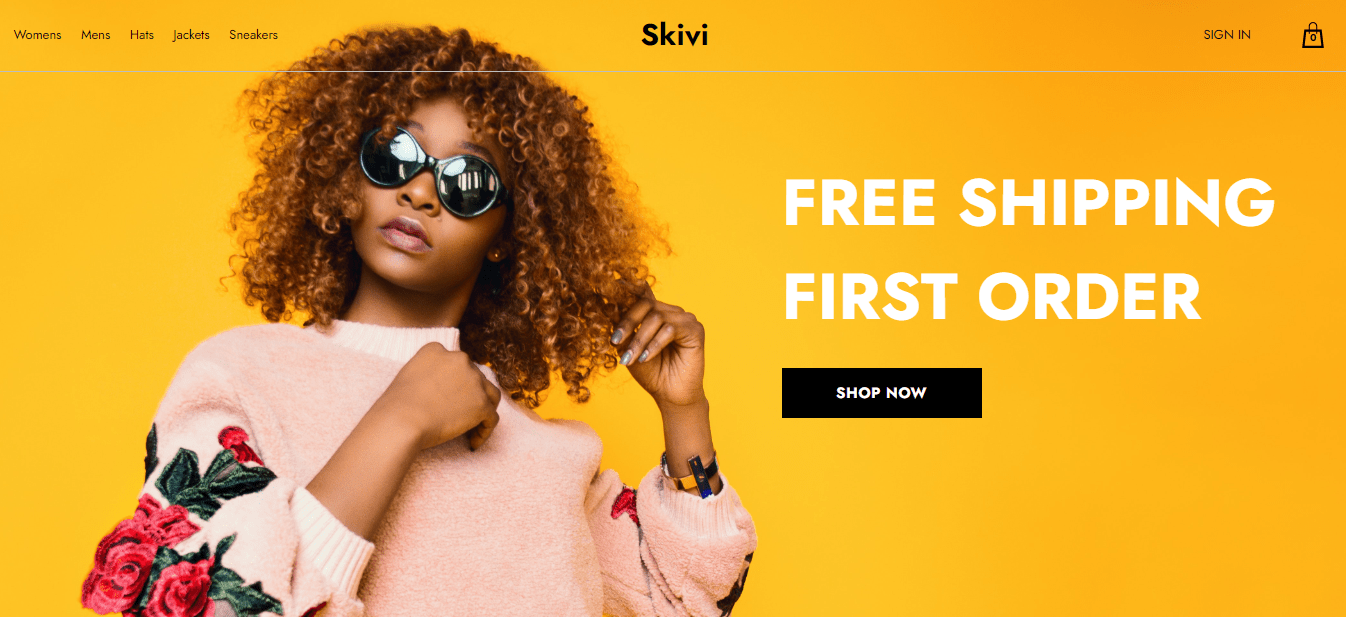
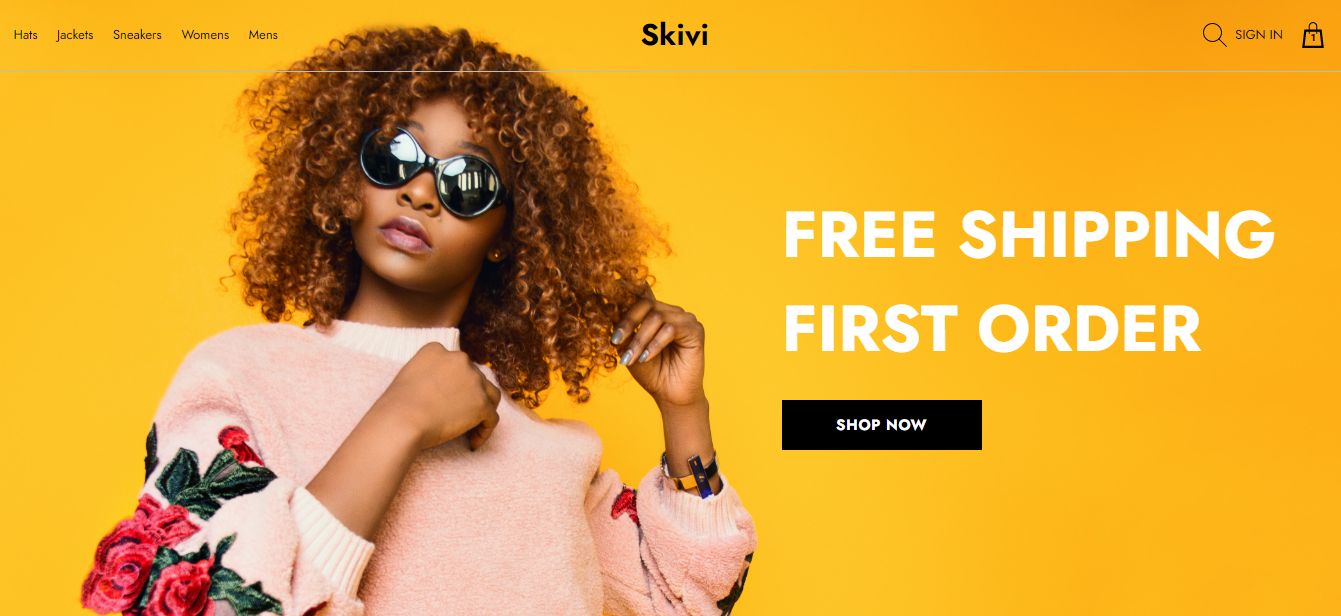
Added resume button

diff --git a/styles/style.css b/styles/style.css
@@ -249,12 +249,28 @@ body {
 }
 
 .s-landing .hero .hero-cta {
-  font-size: 20px;
+  font-size: 17px;
+  width: 30%;
+  display: -webkit-box;
+  display: -ms-flexbox;
+  display: flex;
+  -webkit-box-pack: justify;
+      -ms-flex-pack: justify;
+          justify-content: space-between;
+  -webkit-box-align: center;
+      -ms-flex-align: center;
+          align-items: center;
+}
+
+.s-landing .hero .hero-cta .project-btn, .s-landing .hero .hero-cta .resume-btn {
+  text-align: center;
+  padding: 5px 8px;
   border: 0.5px solid #fcfcc1;
-  width: -webkit-fit-content;
-  width: -moz-fit-content;
-  width: fit-content;
-  padding: 10px;
+}
+
+.s-landing .hero .hero-cta .project-btn {
+  color: #9e5688;
+  background-color: #fcfcc1;
 }
 
 .s-landing .hero .hero-cta a:hover::after {
@@ -700,6 +716,9 @@ body {
     width: 85%;
     margin-top: 5vh;
     margin-left: 12%;
+  }
+  .s-projects .other-projects {
+    padding-left: 5%;
   }
   .s-contact .c-contact .s-text {
     margin: 30% 0 5% 0;

diff --git a/index.html b/index.html
@@ -46,7 +46,10 @@
                 </ul>
 
                 <br>
-                <div class="hero-cta"><a href="#projects">See my projects</a></div>
+                <div class="hero-cta">
+                    <div class="project-btn"><a href="#projects">See my projects</a></div>
+                    <div class="resume-btn"><a href="#">My Resume</a></div>
+                </div>
             </div>
         </section>
         <section id="about" class="s-about">
@@ -177,7 +180,7 @@
             </div>
             <div class="c-contact">
                 <div class="s-text">
-                    <h1>Download my Resume <a href="#" style="font-style: italic;">here</a></h1>
+                    <h1>Download my <a href="#" style="font-style: italic;">Resume</a></h1>
                     <p>Inquiries are welcome</p>
                 </div>
                 <form class="c-form" name="contact" method="POST" data-netlify="true">

diff --git a/styles/style.scss b/styles/style.scss
@@ -188,10 +188,20 @@ body {
             }
         }
         .hero-cta {
-            font-size: 20px;
-            border: 0.5px solid $secondaryColor;
-            width: fit-content;
-            padding: 10px;
+            font-size: 17px;
+            width: 30%;
+            display: flex;
+            justify-content: space-between;
+            align-items: center;
+            .project-btn, .resume-btn {
+                text-align: center;
+                padding: 5px 8px;
+                border: 0.5px solid $secondaryColor;
+            }
+            .project-btn {
+                color: $primaryColor;
+                background-color: $secondaryColor;
+            }
             a:hover::after {
                 transform: scale(0);
             }
